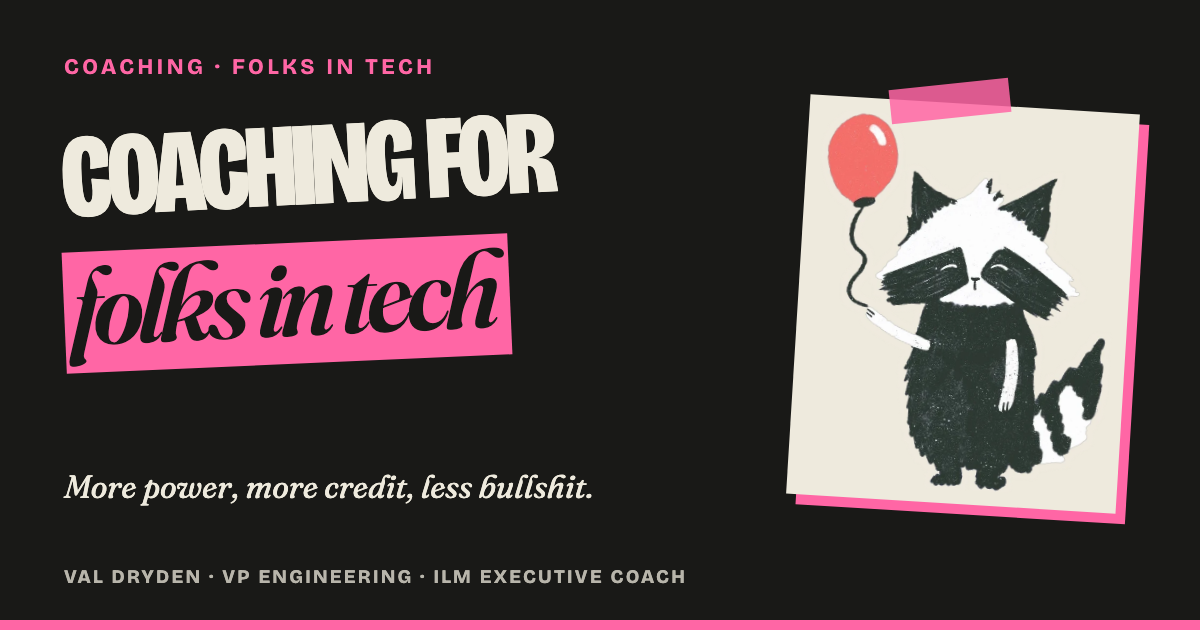
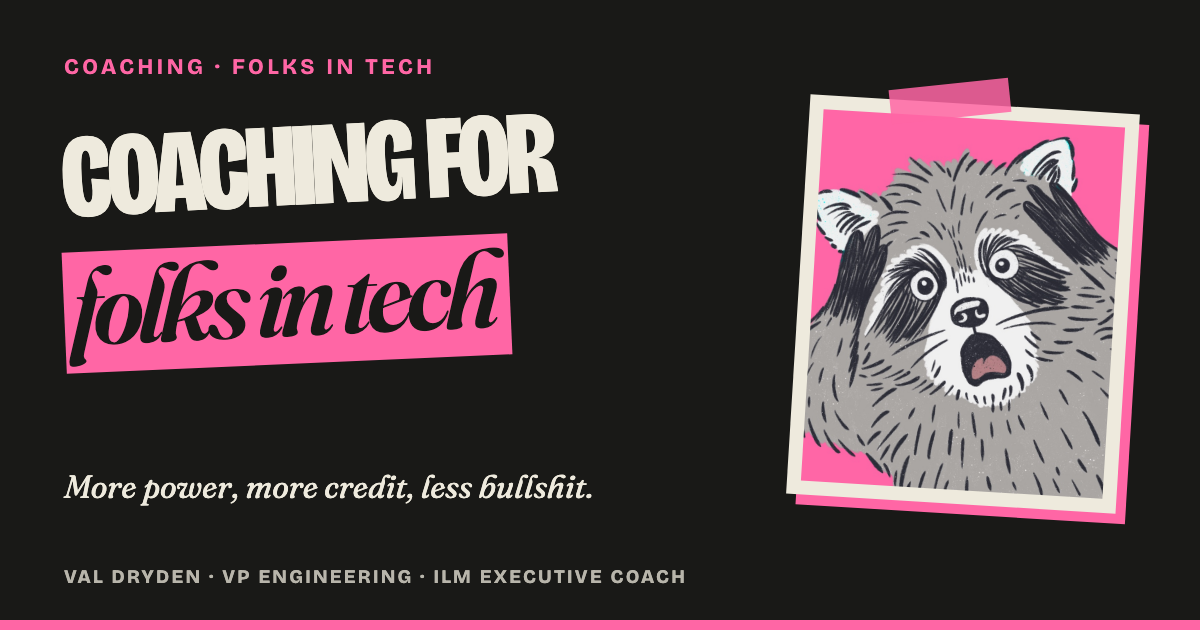
OG images: badge-free screaming racoon on home, folks-in-tech and default

Changed region(s): [[0.6475, 0.1508, 0.9558, 0.8143]]

diff --git a/_og/build.py b/_og/build.py
@@ -8,13 +8,14 @@ IMGS = {
   "me": "assets/images/brand-images/Me.webp",
   "beret": "assets/images/poster/raccoon-beret.webp",
   "balloon": "assets/images/poster/raccoon-balloon.webp",
+  "scream": "assets/images/site/racoon-screaming-900.jpg",
   "hsiam": "assets/images/site/hsiam-raccoon-1100.webp",
 }
 PAGES = [
-  dict(slug="default", kicker="Outraged Racoon Coaching", l1="Outraged", l2="Racoon", sub="No-bullshit coaching for the messy, human, hard parts of working in tech.", img="beret", foot="Val Dryden · VP Engineering · ILM executive coach"),
-  dict(slug="home", kicker="1:1 coaching · for the hard parts of tech", l1="No-bullshit", l2="coaching", sub="for engineering managers and folks in tech.", img="me", foot="Val Dryden · VP Engineering · ILM executive coach"),
+  dict(slug="default", kicker="Outraged Racoon Coaching", l1="Outraged", l2="Racoon", sub="No-bullshit coaching for the messy, human, hard parts of working in tech.", img="scream", foot="Val Dryden · VP Engineering · ILM executive coach"),
+  dict(slug="home", kicker="1:1 coaching · for the hard parts of tech", l1="No-bullshit", l2="coaching", sub="for engineering managers and folks in tech.", img="scream", foot="Val Dryden · VP Engineering · ILM executive coach"),
   dict(slug="engineering-managers", kicker="Coaching · engineering managers", l1="Engineering managers", size="84", l2="coaching", sub="Because there's no undo button for people.", img="beret", foot="Val Dryden · VP Engineering · ILM executive coach"),
-  dict(slug="folks-in-tech", kicker="Coaching · folks in tech", l1="Coaching for", l2="folks in tech", sub="More power, more credit, less bullshit.", img="balloon", foot="Val Dryden · VP Engineering · ILM executive coach"),
+  dict(slug="folks-in-tech", kicker="Coaching · folks in tech", l1="Coaching for", l2="folks in tech", sub="More power, more credit, less bullshit.", img="scream", foot="Val Dryden · VP Engineering · ILM executive coach"),
   dict(slug="course", kicker="Online course · engineering management first aid", l1="Holy shit,", l2="I'm a Manager!", sub="52+ lessons for new engineering managers. Direct access to Val.", img="hsiam", foot="Outraged Racoon Coaching · £400"),
 ]
 TPL = (root/"_og/template.html").read_text()
